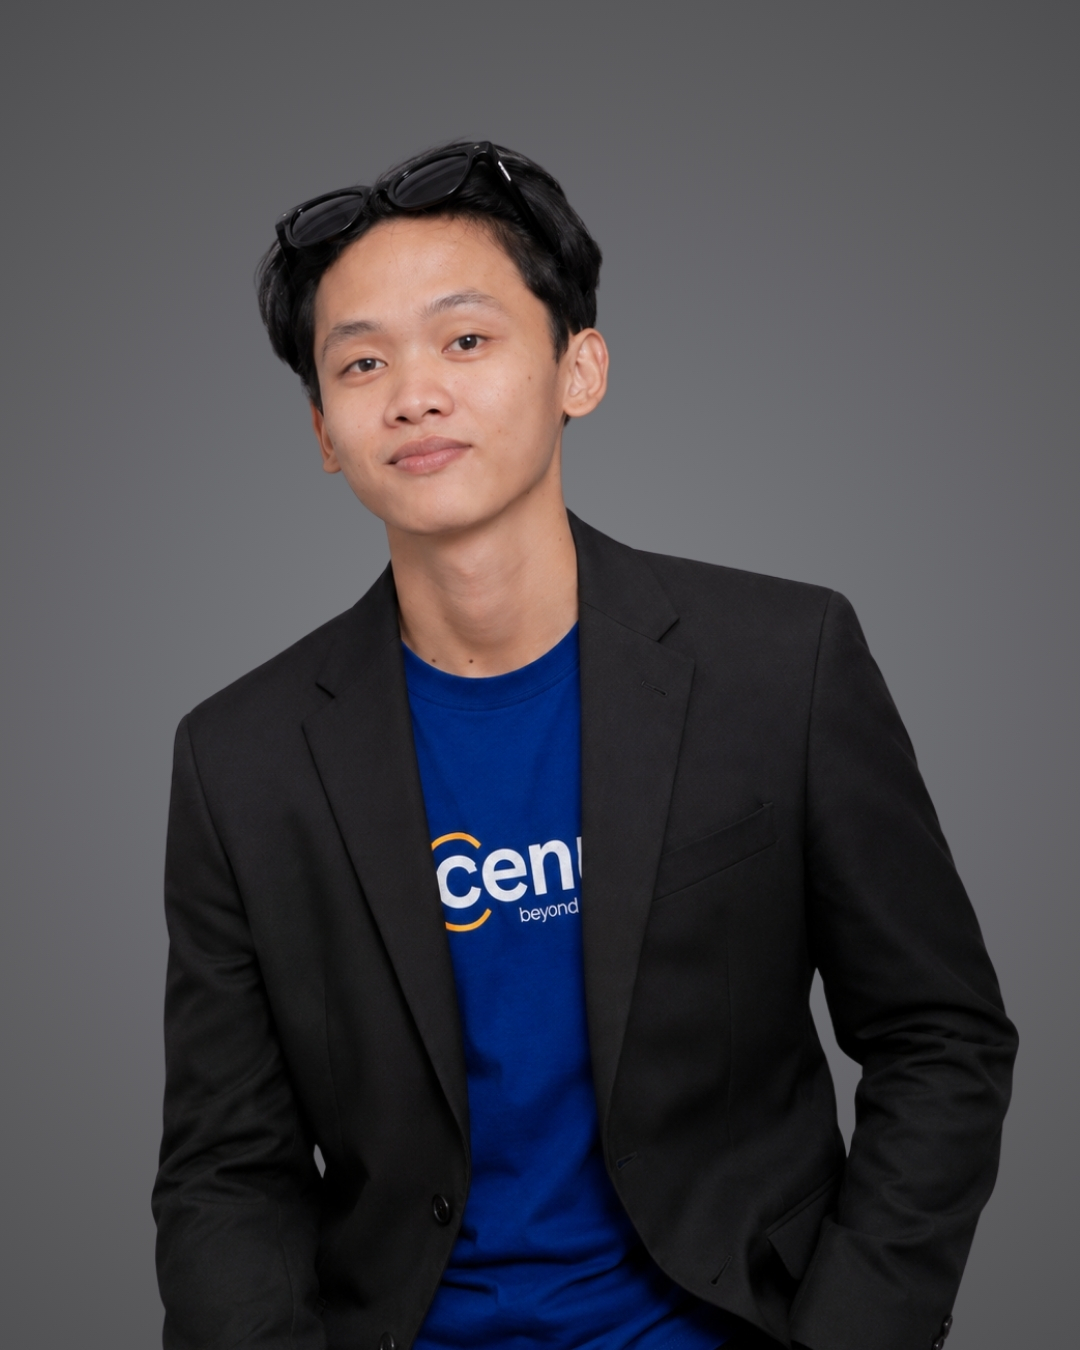
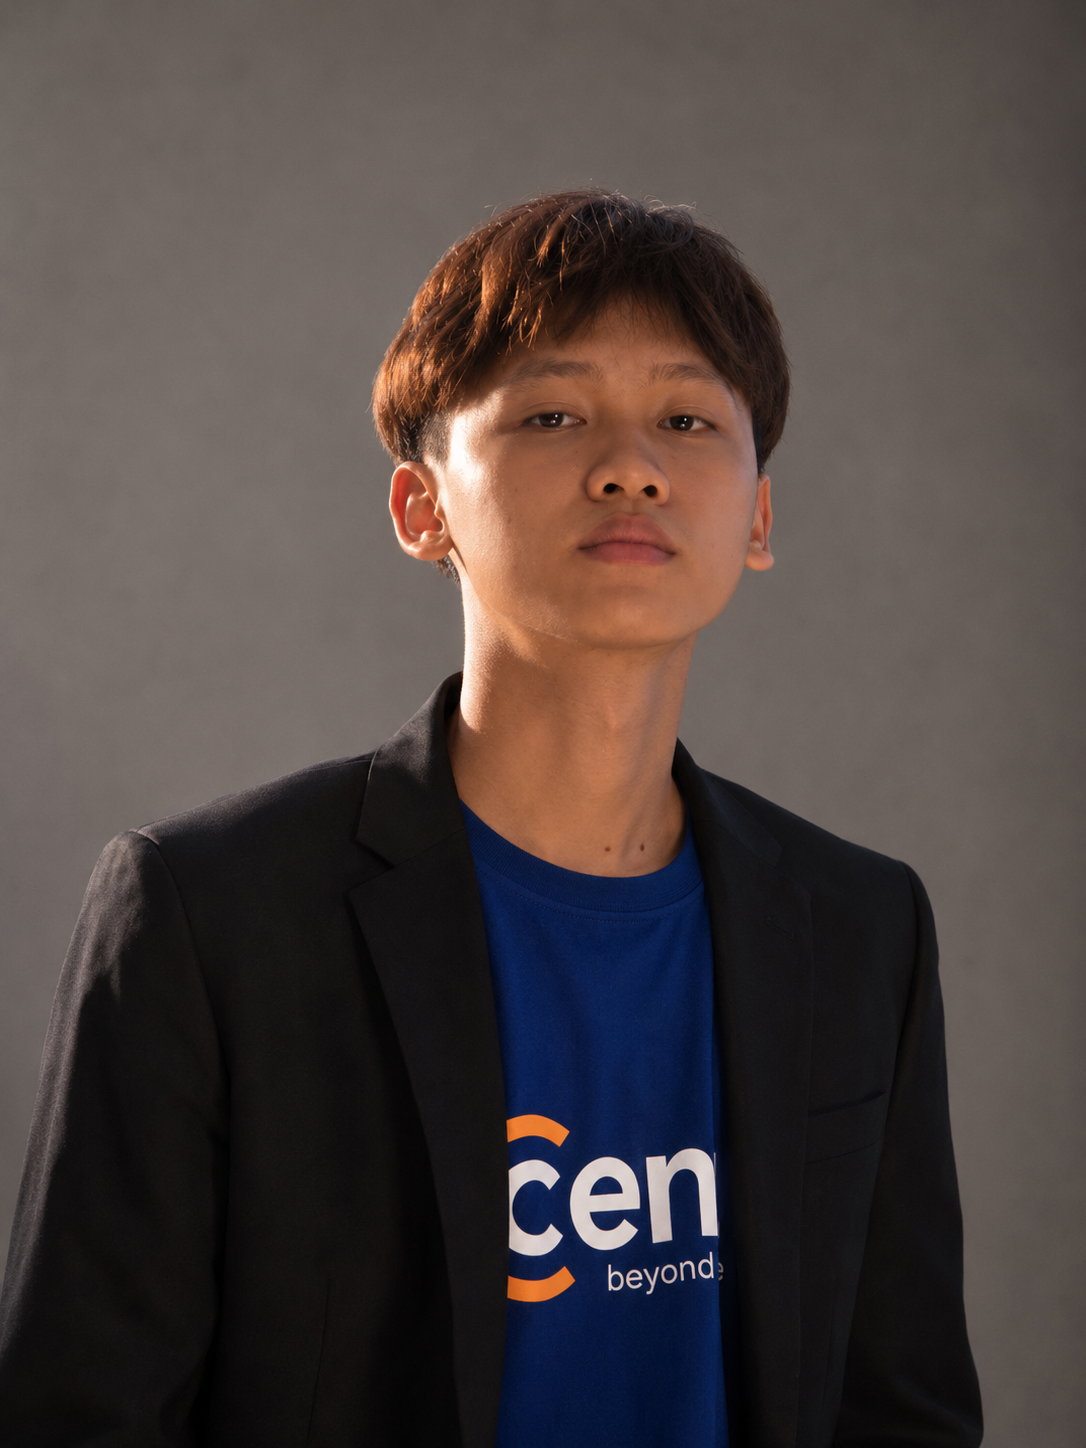
Update hero background color

diff --git a/src/components/Hero.tsx b/src/components/Hero.tsx
@@ -321,7 +321,7 @@ export function Hero() {
   return (
     <section
       id="top"
-      className="relative min-h-[90vh] flex flex-col justify-center items-center text-center px-6 py-20 overflow-hidden bg-slate-950 scroll-mt-28"
+      className="relative min-h-[90vh] flex flex-col justify-center items-center text-center px-6 py-20 overflow-hidden bg-[linear-gradient(180deg,#0b4b95_0%,#003a7d_42%,#002b61_100%)] scroll-mt-28"
     >
       {/* Background abstract elements - Gradient Orbs instead of 3D Globe */}
       <div className="absolute top-1/4 left-1/4 w-[280px] h-[280px] md:w-[500px] md:h-[500px] bg-brand-blue/25 md:bg-brand-blue/30 rounded-full blur-[70px] md:blur-[120px] pointer-events-none md:mix-blend-screen" />
